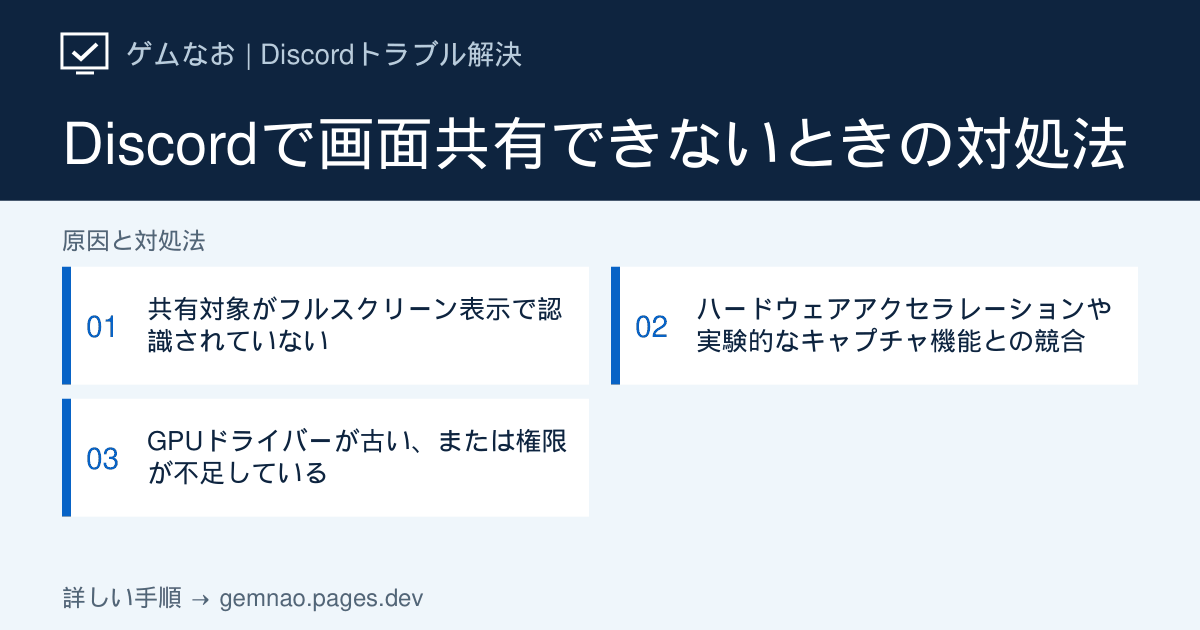
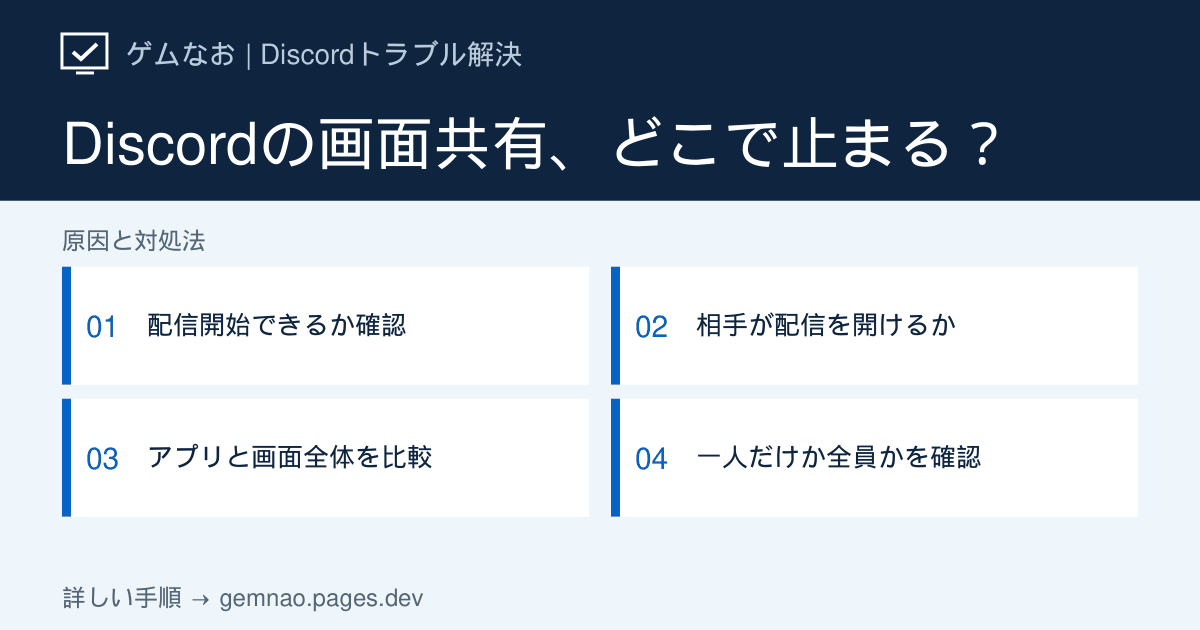
Rewrite Discord screen sharing guide with failure-stage diagnosis

diff --git a/lib/discord-articles.ts b/lib/discord-articles.ts
@@ -32,6 +32,8 @@ export type DiscordArticle = {
   target: string;
   conclusion: string;
   quickFixes: string[];
+  /** Where sharing fails, how to confirm it, and the cause section to follow. */
+  diagnosis?: { symptom: string; check: string; causeIndex: number }[];
   causes: DiscordCause[];
   ifNotFixed: string;
   faqs: { question: string; answer: string }[];
@@ -39,6 +41,8 @@ export type DiscordArticle = {
   related: string[];
   checkedAt: string;
   status: ContentStatus;
+  ogTitle?: string;
+  ogSteps?: string[];
 };
 
 export const discordCategoryLabels: Record<DiscordCategory, string> = {
@@ -446,72 +450,158 @@ const existingDiscordArticles: DiscordArticle[] = [
   {
     slug: 'screen-share-not-working',
     category: 'screen',
-    title: 'Discordで画面共有できないときの対処法',
+    title: 'Discordで画面共有できない・相手に映らない時の直し方【PC版】',
     shortTitle: '画面共有できない',
-    seoTitle: 'Discordで画面共有できないときの対処法',
+    seoTitle: 'Discordで画面共有できない・相手に映らない時の直し方【PC】',
     metaDescription:
-      '画面共有を開始できない、共有しても相手に映らない時の対処法です。ウィンドウモードへの切り替え、権限、ハードウェアアクセラレーションを確認します。',
+      'Discordで画面共有が始まらない・相手に映らない原因を、開始前／共有対象／視聴者側に分けて診断。画面とアプリの比較、動画権限、プレビューと黒画面の違いを解説。',
     symptom:
-      '通話中に画面共有ボタンを押しても共有が始まらない、共有はできても相手の画面に何も映らない場合の手順です。',
+      '画面共有のボタンを押せない、開始しても相手に配信が見えない、特定のゲームだけ黒く映る。失敗する地点を確かめ、配信者側と視聴者側を順番に比べます。',
     target: 'Windows版 Discordデスクトップアプリ',
     conclusion:
-      '共有したいウィンドウをフルスクリーンではなくウィンドウモードに切り替え、それでも直らない場合はDiscordを管理者として実行し、ハードウェアアクセラレーション設定を確認します。',
+      'まず「配信開始前に止まる」のか「Go Liveは始まるが映らない」のかを確認します。開始できなければ通話とサーバーの動画権限を、開始できたら視聴者に「配信を見る」を押してもらい、通常アプリとゲーム、アプリ単体と画面全体を比べてください。',
     quickFixes: [
-      '共有したいアプリやゲームをフルスクリーンからウィンドウモード（または境界のないウィンドウ）に切り替える',
-      'Discordを右クリックし「管理者として実行」で起動し直す',
-      'Discordを再起動し、ボイスチャンネルに入り直してから共有を開始する',
+      '通話に入って「画面を共有」→対象を選ぶ→「配信開始（Go Live）」まで進めるか確認する',
+      '配信が始まったら相手にボイスチャンネルの自分の名前から「配信を見る」を選んでもらい、実際の映像を確認する',
+      '全員に黒く映る場合は、普通のアプリのウィンドウとゲーム、アプリ単体と画面全体を一つずつ切り替えて比べる',
+    ],
+    diagnosis: [
+      {
+        symptom: '共有ボタンがない・押せない／Go Liveが始まらない',
+        check: 'DM通話では開始できるか。同じサーバーの別チャンネルではどうか',
+        causeIndex: 1,
+      },
+      {
+        symptom: '配信は始まるが、相手に表示されない',
+        check:
+          '相手は「配信を見る」を押したか。配信一覧の小さなプレビューだけを見ていないか',
+        causeIndex: 2,
+      },
+      {
+        symptom: '配信者の小窓だけ止まる',
+        check:
+          'ゲームを前面にしている時だけ止まるか。相手の実際の視聴画面も止まるか',
+        causeIndex: 2,
+      },
+      {
+        symptom: 'ゲームだけ黒い・選択一覧に出ない',
+        check: 'メモ帳など別のウィンドウ、画面全体では映るか',
+        causeIndex: 3,
+      },
+      {
+        symptom: '一人だけ黒い・見られない',
+        check: '同じ通話にいる別の人は同じ配信を視聴できるか',
+        causeIndex: 4,
+      },
+      {
+        symptom: '複数人に、通常アプリも画面全体も黒い',
+        check: '共有対象を変えても続くか。Discord再起動後も同じか',
+        causeIndex: 5,
+      },
     ],
     causes: [
       {
-        title: '共有対象がフルスクリーン表示で認識されていない',
+        title: '共有を始められない：通話への参加と「動画」権限を調べる',
         description:
-          '一部のゲームやアプリは、フルスクリーンのままだと画面共有機能から正しく検出できないことがあります。',
+          'サーバーのボイスチャンネルで配信するには「動画」権限が必要です。DM通話では始められるのに特定チャンネルでは始められない場合、権限の違いを確かめます。',
         actions: [
-          '共有したいゲーム・アプリの表示設定を「ウィンドウモード」または「境界のないウィンドウ」に変更する',
-          '通話画面の共有ボタンから、対象アプリの一覧に表示されるか確認する',
-          '個別アプリで映らない場合は「画面」タブから対象のディスプレイを選んで試す',
+          'サーバーなら対象ボイスチャンネルに参加する。DMなら先に通話を開始し、「画面を共有」から対象を選んで「配信開始（Go Live）」まで進む',
+          'サーバーでだけ押せない・開始できない時は、管理者に「サーバー設定→ロール」と「ボイスチャンネルを右クリック→チャンネルの編集→権限」の「動画」を確認してもらう。自分にない管理権限は変更しない',
+          'DM通話では始められるか、権限の異なる別チャンネルではどうかを比べる。どこでも始まらない場合はDiscordを完全終了して開き直し、Discord Statusも確認する',
+        ],
+        note: 'ボタンを押せても「配信開始」直後に止まる場合は、止まった場所とエラー文を控えてください。ボタンの有無だけで権限が原因とは断定できません。',
+      },
+      {
+        title: '配信中なのに見えない：視聴画面とプレビューを区別する',
+        description:
+          'サーバー一覧の小さなプレビューを隠す設定があります。また、配信者の小窓はゲームが前面にある間、自動的に一時停止することがあります。相手の実際の視聴画面で判定します。',
+        actions: [
+          '配信者は「Go Live」表示が続いているかを見る。視聴者は同じボイスチャンネルに入り、配信者の名前→「配信を見る」を選ぶ',
+          '一覧のプレビューが空でも、実際の視聴画面が映れば共有は正常。配信開始時の「配信プレビューを隠す」やユーザー設定のプレビュー設定を確認する',
+          '配信者の小窓だけがゲーム操作中に止まる場合は、視聴者の映像も止まるか尋ねる。視聴者には映っていれば小窓を理由にGPU設定を変えない',
+          '視聴画面が黒い、または止まるなら次の手順で共有対象を比較する',
         ],
       },
       {
-        title: 'ハードウェアアクセラレーションや実験的なキャプチャ機能との競合',
+        title: '特定アプリだけ映らない：アプリ単体と画面全体を比べる',
         description:
-          '環境によっては、画面キャプチャに関する設定がグラフィック機能と競合し、共有できなくなることがあります。',
+          '共有対象を取り違えているか、ゲームの表示方式が原因の可能性があります。配信者と視聴者が同じ順序で、見える対象と見えない対象を記録します。',
         actions: [
-          'ユーザー設定の「音声・ビデオ」を開く',
-          '画面共有に関する項目（ハードウェアアクセラレーション／キャプチャ方式）を一度オフにして共有を試す',
-          '改善しない場合はオンに戻し、別の組み合わせで比較する',
-          '変更後は必ずDiscordを再起動してから確認する',
+          'メモ帳など個人情報が映らない普通のアプリを開き、そのアプリのウィンドウを選んで共有する。相手に文字を入力する様子が映るか確認する',
+          'メモ帳が映るならゲームを起動し、共有するアプリの一覧からそのゲームを選ぶ。一覧に出なければゲームをウィンドウ／ボーダーレス表示に変更して選び直す',
+          'ゲームだけ黒い場合は共有を止め、「画面」側から対象ディスプレイを選んで比較する。映るならアプリ単体の取得方法が原因候補。画面全体には通知や個人情報も映るので共有前に隠す',
+          '途中で別ウィンドウへ切り替えた場合は配信中の「ウィンドウを変更」から対象を選び直す。どちらの方法でも黒い場合は手順5へ進む',
         ],
       },
       {
-        title: 'GPUドライバーが古い、または権限が不足している',
+        title: '一人だけ見えない：二人目の視聴者で切り分ける',
         description:
-          '古いGPUドライバーや、Discordの実行権限不足により画面キャプチャが正しく動作しないことがあります。',
+          '配信は続いているのに一人だけ見られない場合、配信者の画面取得と、その人の視聴環境を分けて確認します。',
         actions: [
-          '使用しているGPUのメーカー公式サイトから最新ドライバーを導入する',
-          'Discordを「管理者として実行」で起動し直す',
-          'PCを再起動してから、あらためて画面共有を試す',
+          '同じボイスチャンネルにもう一人参加してもらい、二人とも配信者の名前→「配信を見る」から同じ配信を開く',
+          '二人目に映るなら一人目は配信を閉じて同じチャンネルに入り直す。別のボイスチャンネルへ移動すると配信から外れるので、戻って視聴を選び直す',
+          '二人とも同じ対象で黒いなら、視聴者だけの設定変更を続けず手順3で共有対象を、手順5で配信者側の描画設定を比較する',
         ],
+      },
+      {
+        title: '通常アプリも全員に黒い：描画設定と通信を一つずつ比較する',
+        description:
+          '対象アプリ・画面全体の両方が複数の視聴者に黒く映る場合に、Discordの映像処理や通信を確認します。',
+        actions: [
+          'Discordと共有対象を完全終了して起動し直し、同じメモ帳ウィンドウを同じ相手に共有して、再現するか確認する',
+          '続く場合はDiscordの歯車→「音声・ビデオ」→「ビデオ」の「ハードウェアアクセラレーション」を一度オフにし、Discordを再起動して同じ対象で比較する。変化がなければ元へ戻す',
+          '配信は見えるが頻繁に固まる場合は配信中の小窓の歯車→配信品質から解像度またはフレームレートを一段下げ、同じ相手に確認する',
+          '全員に黒い状態が続くならWindowsとGPUメーカーのドライバー更新を確認し、エラー文・共有対象・相手の人数・試した結果を控えてDiscord公式サポートへ伝える',
+        ],
+        note: '公式の「ハードウェアアクセラレーション」は「音声・ビデオ」の「ビデオ」内です。表示されない実験的なキャプチャ項目を探す必要はありません。',
       },
     ],
     ifNotFixed:
-      'ここまでの手順で直らない場合は、Discordのキャッシュを削除してから再起動してください（手順は「起動しない」の記事を参照）。他の通話相手の環境でも同様に共有できないかを確認すると、自分側かDiscord側かの切り分けに役立ちます。',
+      'Discord公式サポートへは、①Go Liveまで進めるか、②通常アプリ／ゲーム／画面全体での違い、③何人の視聴者に黒く見えるか、④Discord Statusと再起動の結果、⑤エラー文をまとめて伝えると状況が伝わります。映像は映るが音だけ聞こえない場合は、下の「配信に音が入らない」記事を確認してください。',
     faqs: [
       {
-        question: '特定のゲームだけ画面共有できません',
+        question:
+          '共有中の小窓に「一時停止」と表示されます。相手にも映っていませんか？',
         answer:
-          'そのゲームがフルスクリーン専用の描画方式を使っている可能性があります。ゲーム側の設定でウィンドウモードや境界のないウィンドウに変更できないか確認してください。',
+          'ゲームが前面にあると配信者の小窓は自動で一時停止することがあります。まず相手に「配信を見る」から開いた映像が動いているか確認してもらってください。小窓だけでは不具合と判断できません。',
       },
       {
-        question: 'ブラウザ版Discordでも同じ症状が出ます',
+        question: '配信一覧のプレビューが黒いのに、相手は映像を見られます',
         answer:
-          'ブラウザ版は使用しているブラウザの画面共有許可が必要です。ブラウザのアドレスバー付近に表示される共有許可の確認、またはブラウザの設定からDiscordの画面共有権限を確認してください。',
+          'プレビューだけが隠されている可能性があります。Discordは配信一覧のプレビュー表示をオフにできます。相手が「配信を見る」で開いた実際の映像が正常なら、そのまま共有できます。',
+      },
+      {
+        question: 'DMでは画面共有できるのに、サーバーでは開始できません',
+        answer:
+          'サーバー側の「動画」権限が関係する可能性があります。管理者にロールと対象ボイスチャンネルの権限を確認してもらってください。DMでの成功だけでは、サーバー側に障害があるとは判断できません。',
       },
     ],
-    sources: [streamingGuide, discordStatus],
-    related: ['error-1001', 'stream-no-audio', 'overlay-not-showing'],
-    checkedAt: '2026-09-16',
+    sources: [
+      support(
+        '360040816151-Go-Live-and-Screen-Share',
+        'Go Liveと画面共有・動画権限・視聴方法（英語）',
+      ),
+      support(
+        '360045138471-Discord-Voice-and-Video-Troubleshooting-Guide',
+        '音声・映像・画面共有のトラブルシューティング（英語）',
+      ),
+      streamingGuide,
+      discordStatus,
+    ],
+    related: [
+      'screen-share-black-screen',
+      'stream-no-audio',
+      'stream-stuttering',
+    ],
+    checkedAt: '2026-09-27',
     status: 'verified',
+    ogTitle: 'Discordの画面共有、どこで止まる？',
+    ogSteps: [
+      '配信開始できるか確認',
+      '相手が配信を開けるか',
+      'アプリと画面全体を比較',
+      '一人だけか全員かを確認',
+    ],
   },
   {
     slug: 'stream-no-audio',

diff --git a/app/discord/[slug]/page.tsx b/app/discord/[slug]/page.tsx
@@ -177,6 +177,9 @@ export default async function DiscordArticlePage({
         <aside className="toc issue-toc">
           <strong>このページの内容</strong>
           <a href="#answer">まず試すこと</a>
+          {item.diagnosis?.length ? (
+            <a href="#diagnosis">症状別の判定表</a>
+          ) : null}
           <a href="#status-check">Discord全体の障害確認</a>
           {item.causes.map((cause, i) => (
             <a href={`#cause-${i + 1}`} key={cause.title}>
@@ -200,6 +203,43 @@ export default async function DiscordArticlePage({
               ))}
             </ol>
           </section>
+          {item.diagnosis?.length ? (
+            <section
+              className="diagnosis-table"
+              id="diagnosis"
+              aria-labelledby="discord-diagnosis-title"
+            >
+              <h2 id="discord-diagnosis-title">
+                どこで止まる？ 症状別の判定表
+              </h2>
+              <p>
+                配信の開始前・視聴者側・共有対象のどこで失敗するかを確認してください。
+              </p>
+              <table>
+                <thead>
+                  <tr>
+                    <th scope="col">見えている症状</th>
+                    <th scope="col">まず比べること</th>
+                    <th scope="col">次の手順</th>
+                  </tr>
+                </thead>
+                <tbody>
+                  {item.diagnosis.map((row) => (
+                    <tr key={row.symptom}>
+                      <td data-label="症状">{row.symptom}</td>
+                      <td data-label="比較">{row.check}</td>
+                      <td data-label="手順">
+                        <a href={`#cause-${row.causeIndex}`}>
+                          {row.causeIndex}.{' '}
+                          {item.causes[row.causeIndex - 1]?.title}
+                        </a>
+                      </td>
+                    </tr>
+                  ))}
+                </tbody>
+              </table>
+            </section>
+          ) : null}
           {visual ? <SolutionIllustration visual={visual} /> : null}
           <section className="caution-block" id="status-check">
             <h2>

diff --git a/lib/og-cards.ts b/lib/og-cards.ts
@@ -67,9 +67,11 @@ export function ogCardSpecs(): OgCardSpec[] {
     .map((article) => ({
       path: `/discord/${article.slug}`,
       eyebrow: 'Discordトラブル解決',
-      title: article.title,
+      title: article.ogTitle || article.title,
       itemsLabel: '原因と対処法',
-      items: article.causes.slice(0, 4).map((cause) => cause.title),
+      items:
+        article.ogSteps ||
+        article.causes.slice(0, 4).map((cause) => cause.title),
     }));
   const troubleCards = troubleHubs
     .filter((hub) => !troubleVisualBySlug(hub.slug))

diff --git a/lib/og-image-manifest.ts b/lib/og-image-manifest.ts
@@ -26,7 +26,7 @@ export const ogImageManifest: Record<string, string> = {
   "/discord/overlay-not-showing": "7aff7383",
   "/discord/phone-verification-error": "2e66c5cd",
   "/discord/screen-share-black-screen": "038074d8",
-  "/discord/screen-share-not-working": "d578adfe",
+  "/discord/screen-share-not-working": "950ea3dc",
   "/discord/slow-performance": "b69eb26c",
   "/discord/stream-no-audio": "b7ccb434",
   "/discord/system-helper": "7455f630",
